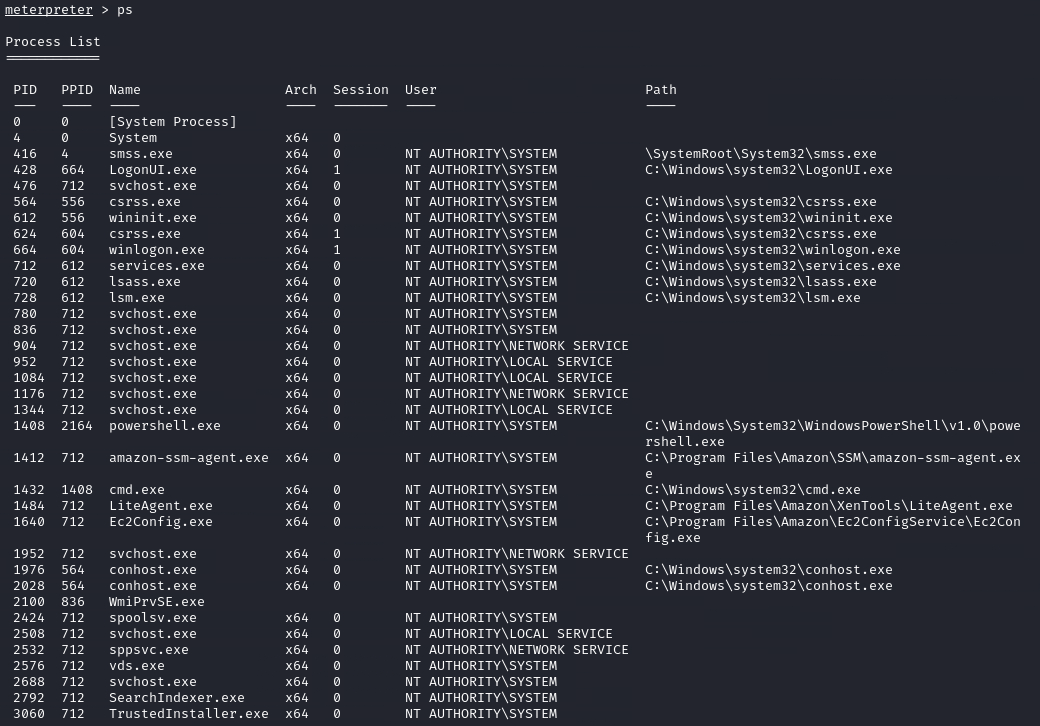
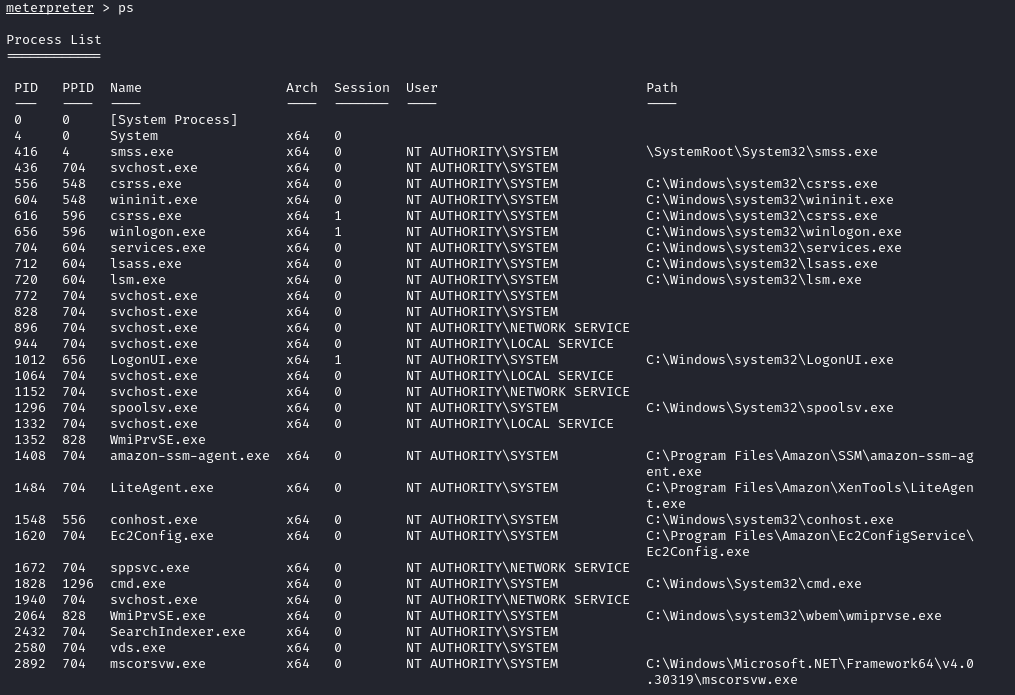
Update

diff --git a/Room/Blue/README.md b/Room/Blue/README.md
@@ -74,7 +74,7 @@ Usually it would be fine to run this exploit as is; however, for the sake of lea
 
 Escalate privileges, learn how to upgrade shells in metasploit.
 
-### Answer the questions below
+### Answer the questions
 
 * If you haven't already, background the previously gained shell (CTRL + Z). Research online how to convert a shell to meterpreter shell in metasploit. What is the name of the post module we will use? (Exact path, similar to the exploit we previously selected) 
 
@@ -110,10 +110,57 @@ Escalate privileges, learn how to upgrade shells in metasploit.
 
 * Migrate to this process using the 'migrate PROCESS_ID' command where the process id is the one you just wrote down in the previous step. This may take several attempts, migrating processes is not very stable. If this fails, you may need to re-run the conversion process or reboot the machine and start once again. If this happens, try a different process next time. 
 
-	``
+	![task3-migrate](./images/task3-migrate.png)
 
 ## Task 4 - Cracking
 
+Dump the non-default user's password and crack it!
 
+### Answer the questions
+
+* Within our elevated meterpreter shell, run the command 'hashdump'. This will dump all of the passwords on the machine as long as we have the correct privileges to do so. What is the name of the non-default user? 
+
+	`Jon`
+
+	![task4-hashdump](./images/task4-hashdump.png)
+
+* Copy this password hash to a file and research how to crack it. What is the cracked password?
+
+	`alqfna22`
+
+	![task5-john](./images/task5-john.png)
 
 ## Task 5 - Find flags!
+
+Find the three flags planted on this machine. These are not traditional flags, rather, they're meant to represent key locations within the Windows system. Use the hints provided below to complete this room!
+
+
+-----------------------------------------------------------------
+
+
+Completed Blue? Check out Ice: [Link](https://tryhackme.com/room/ice)
+
+You can check out the third box in this series, Blaster, here: [Link](https://tryhackme.com/room/blaster)
+
+### Answer the questions
+
+* Flag1? This flag can be found at the system root. 
+
+	`flag{access_the_machine}`
+
+	![task6-flag1](./images/task6-flag1.png)
+
+Flag2? This flag can be found at the location where passwords are stored within Windows.
+
+* Errata: Windows really doesn't like the location of this flag and can occasionally delete it. It may be necessary in some cases to terminate/restart the machine and rerun the exploit to find this flag. This relatively rare, however, it can happen. 
+
+	`flag{sam_database_elevated_access}`
+
+	![task6-flag2](./images/task6-flag2.png)
+
+* Flag3? This flag can be found in an excellent location to loot. After all, Administrators usually have pretty interesting things saved. 
+
+	`flag{admin_documents_can_be_valuable}`
+	
+	![task6-flag3](./images/task6-flag3.png)
+
